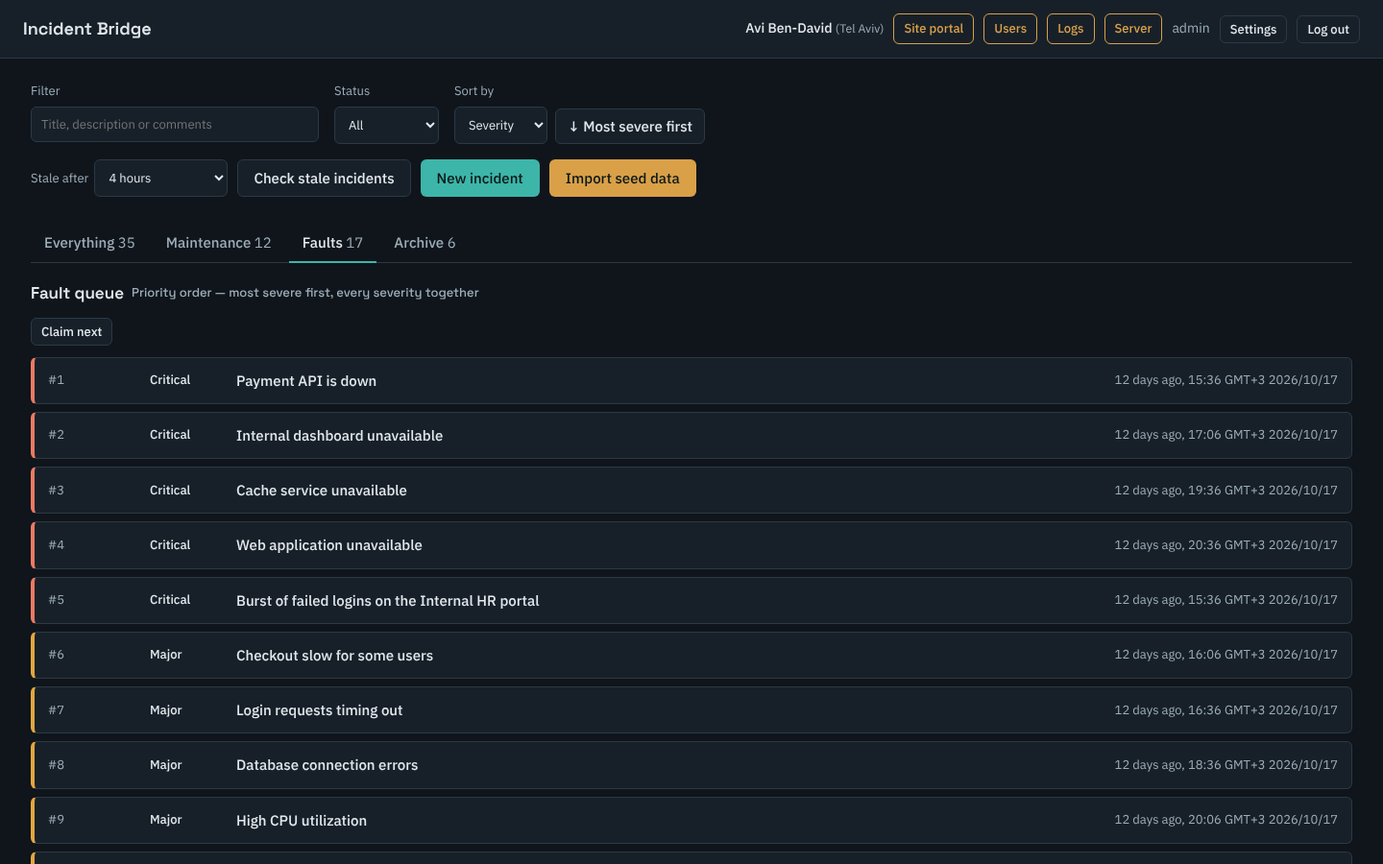
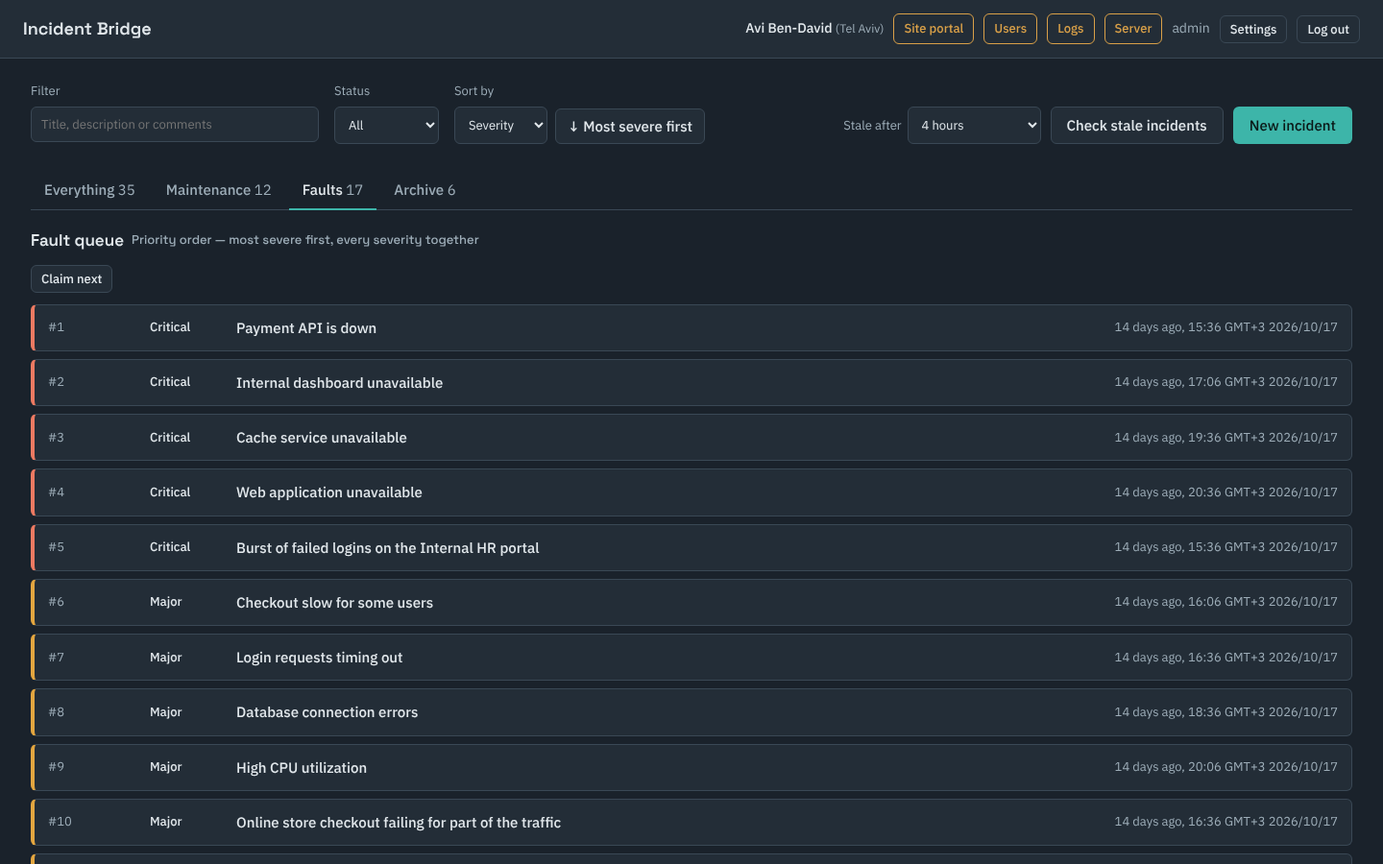
Gate the API docs behind a setting, fix the phone layout, new dark screenshot
- API_DOCS_ACCESS (Server settings > Settings > Server): login (default)
  or public for /docs, /redoc and /openapi.json; strangers are sent to the
  login page, /openapi.json answers 401
- Top bar wraps at phone width; the Users table's hidden label no longer
  widens the page - no page scrolls sideways at 390px
- Recaptured 08-dashboard-dark.png in the default Medium shade
- Docs: README, guide and .env.example; stale demo.py references removed

Changed region(s): [[0.0, 0.1867, 1.0, 0.9956], [0.625, 0.1244, 1.0, 0.1867]]

diff --git a/frontend/guide.html b/frontend/guide.html
@@ -267,7 +267,7 @@
       <figcaption>Server settings while testing: HTTPS with the generated certificate.</figcaption>
     </figure>
     <ul>
-      <li><strong>Settings</strong> — grouped: the mode, logins, the activity log, the site portal and the AI queue's timing. They are kept encrypted with the data. The file <code>backend/.env</code> only gave their first values when the app was set up; changing it now has no effect. Each shows <em>saved</em> or <em>default</em>; an empty field goes back to the default. A value the app could not start with is refused, and production mode only once HTTPS is set up for it.</li>
+      <li><strong>Settings</strong> — grouped: the mode, who may read the API documentation (<code>/docs</code>: logged-in users only, or anyone), logins, the activity log, the site portal and the AI queue's timing. They are kept encrypted with the data. The file <code>backend/.env</code> only gave their first values when the app was set up; changing it now has no effect. Each shows <em>saved</em> or <em>default</em>; an empty field goes back to the default. A value the app could not start with is refused, and production mode only once HTTPS is set up for it.</li>
       <li><strong>HTTPS</strong> — <em>Serve HTTPS</em> adds an encrypted address next to the plain one, on its own port (for example <code>https://your-server:8443</code>). <em>HTTPS only for remote connections</em> sends anyone on another computer who uses the plain address on to the HTTPS one. From the server computer itself the plain address always keeps working, so a wrong setting can never lock you out.</li>
       <li><strong>Certificate</strong> — while testing, the app can make its own (<em>self-signed</em>): each browser warns about it once, then lets you continue. In <strong>production</strong> it must be a certificate from a certificate authority — your organization, your hosting company, or a public one such as Let's Encrypt, DigiCert or GoDaddy. Enter the paths of its certificate file (with the intermediate certificates after it, as the authority provides them) and its key file, and <em>Check the files</em>. In production the server will not start without HTTPS, a valid certificate from an authority, and <em>HTTPS only for remote connections</em>.</li>
       <li><strong>Trusted proxies</strong> — only when another server (a reverse proxy) sits in front of the app: its address, so the app believes what it reports about the visitor. Leave it empty otherwise.</li>

diff --git a/frontend/css/styles.css b/frontend/css/styles.css
@@ -244,6 +244,11 @@ textarea { resize: vertical; }
 }
 .topbar .wordmark { font-size: 18px; text-decoration: none; color: var(--ink); }
 .topbar-user { display: flex; align-items: center; gap: 10px; font-size: 14px; }
+/* Phone width: the wordmark on its own line, the buttons wrap below it. */
+@media (max-width: 720px) {
+  .topbar { flex-wrap: wrap; gap: 8px; padding: 12px 16px; }
+  .topbar-user { flex-wrap: wrap; gap: 6px 8px; }
+}
 .topbar-username { font-weight: 500; }
 .topbar-role { color: var(--ink-soft); text-transform: lowercase; }
 
@@ -426,7 +431,7 @@ a.row:focus-visible { outline: 2px solid var(--accent); outline-offset: 2px; }
 .row-stale-tag { font-size: 12px; font-weight: 600; color: var(--major); white-space: nowrap; }
 
 /* --- pressing maintenance calls table --- */
-.table-wrap { overflow-x: auto; margin-top: 8px; }
+.table-wrap { overflow-x: auto; margin-top: 8px; position: relative; }   /* relative: keeps .sr-only labels inside the scroll area */
 .data-table {
   width: 100%;
   border-collapse: collapse;

diff --git a/backend/app/api/docs.py b/backend/app/api/docs.py
@@ -1,0 +1,73 @@
+"""
+FastAPI's API documentation - /docs (Swagger UI), /redoc and the schema
+they read, /openapi.json - behind the API_DOCS_ACCESS setting (Server
+settings > Settings > Server, app/app_config.py):
+
+    login   (default) only for someone logged in: the pages send anyone else
+            to the login page, /openapi.json answers 401
+    public  open to anyone, like FastAPI's default
+
+The documentation only describes the API - every endpoint still checks the
+login and the role itself - but by default it is not handed to strangers.
+Read from the environment on each request; the saved setting reaches the
+environment at the next start (app_config.apply()), like every setting.
+"""
+
+import os
+
+from fastapi import APIRouter, HTTPException, Request
+from fastapi.openapi.docs import get_redoc_html, get_swagger_ui_html, get_swagger_ui_oauth2_redirect_html
+from fastapi.responses import JSONResponse, RedirectResponse
+
+from app.api.deps import get_current_user
+
+API_DOCS_ENV = "API_DOCS_ACCESS"
+CHOICES = ("login", "public")
+OPENAPI_URL = "/openapi.json"
+
+router = APIRouter(include_in_schema=False)
+
+
+def docs_access() -> str:
+    """API_DOCS_ACCESS: login (default) or public. ValueError for anything else (startup stops with it)."""
+    value = (os.environ.get(API_DOCS_ENV) or "login").strip().lower()
+    if value not in CHOICES:
+        raise ValueError(f"{API_DOCS_ENV} must be login or public (got {value!r}).")
+    return value
+
+
+def _allowed(request: Request) -> bool:
+    if docs_access() == "public":
+        return True
+    try:
+        get_current_user(request)
+    except HTTPException:
+        return False
+    return True
+
+
+@router.get(OPENAPI_URL)
+def openapi_schema(request: Request):
+    if not _allowed(request):
+        raise HTTPException(status_code=401, detail="Log in to read the API documentation.")
+    return JSONResponse(request.app.openapi())
+
+
+@router.get("/docs")
+def swagger_ui(request: Request):
+    if not _allowed(request):
+        return RedirectResponse("/", status_code=303)
+    return get_swagger_ui_html(openapi_url=OPENAPI_URL, title=f"{request.app.title} - docs",
+                               oauth2_redirect_url="/docs/oauth2-redirect")
+
+
+@router.get("/docs/oauth2-redirect")
+def swagger_ui_redirect():
+    return get_swagger_ui_oauth2_redirect_html()
+
+
+@router.get("/redoc")
+def redoc(request: Request):
+    if not _allowed(request):
+        return RedirectResponse("/", status_code=303)
+    return get_redoc_html(openapi_url=OPENAPI_URL, title=f"{request.app.title} - ReDoc")

diff --git a/backend/app/api/app.py b/backend/app/api/app.py
@@ -30,7 +30,7 @@ from fastapi.responses import FileResponse, JSONResponse, RedirectResponse
 from fastapi.staticfiles import StaticFiles
 
 from app import app_config
-from app.api import ai_requests, analysis, auth, events, incidents, logs, server, setup, sites, users
+from app.api import ai_requests, analysis, auth, docs, events, incidents, logs, server, setup, sites, users
 from app.api.deps import get_session_user
 from app.api.lifecycle import start_services, stop_services
 from app.api.request_log import RequestLogMiddleware
@@ -92,7 +92,9 @@ async def lifespan(app: FastAPI):
 # Uvicorn with it; this also covers the bare `uvicorn app.api.app:app` command.
 apply_console_format()
 
-app = FastAPI(title="Incident Bridge API", version=app_version(), lifespan=lifespan)
+# The API docs are served by app/api/docs.py, behind the API_DOCS_ACCESS setting.
+app = FastAPI(title="Incident Bridge API", version=app_version(), lifespan=lifespan,
+              docs_url=None, redoc_url=None, openapi_url=None)
 
 # --- session cookie (signed, not encrypted - don't put secrets in it) ---
 # Keyed with the installation's session secret, generated at setup and kept in
@@ -135,12 +137,13 @@ app.include_router(sites.router)   # admin-only site portal (Sites & Mailing Lis
 app.include_router(analysis.router)   # AI analysis of faults (app/ai/)
 app.include_router(ai_requests.router)  # admin: the AI request history and archive (site portal)
 app.include_router(server.router)     # admin-only Server settings (HTTPS, AI)
+app.include_router(docs.router)       # /docs, /redoc, /openapi.json (API_DOCS_ACCESS)
 
 
 # --- centralized exception -> HTTP status mapping ---
 # The domain layer (app/models, app/queues) raises plain Python exceptions
 # for business-rule violations rather than HTTP-aware ones, so it stays
-# usable outside a web context too (e.g. from demo.py). These handlers are
+# usable outside a web context too (e.g. from main.py). These handlers are
 # the one place that translates them - see app/api/incidents.py and
 # app/api/auth.py for where each one gets raised.
 

diff --git a/backend/tests/test_api/test_api_docs.py b/backend/tests/test_api/test_api_docs.py
@@ -1,0 +1,39 @@
+"""
+Tests for the API documentation behind API_DOCS_ACCESS (app/api/docs.py):
+by default only for someone logged in; "public" opens it to anyone; a bad
+value is refused on the Server settings page.
+
+Run from backend/:  python -m pytest tests/test_api/test_api_docs.py -v
+"""
+
+import pytest
+from fastapi.testclient import TestClient
+
+DOC_PAGES = ("/docs", "/redoc")
+
+
+def test_by_default_strangers_are_sent_to_the_login_page(app_client):
+    for page in DOC_PAGES:
+        response = app_client.get(page, follow_redirects=False)
+        assert response.status_code == 303 and response.headers["location"] == "/"
+    assert app_client.get("/openapi.json").status_code == 401
+
+
+def test_a_logged_in_user_reads_them(user_client):
+    for page in DOC_PAGES:
+        assert user_client.get(page).status_code == 200
+    schema = user_client.get("/openapi.json").json()
+    assert "/incidents" in schema["paths"] and "/openapi.json" not in schema["paths"]
+
+
+def test_public_opens_them_to_anyone(app_client, monkeypatch):
+    monkeypatch.setenv("API_DOCS_ACCESS", "public")
+    stranger = TestClient(app_client.app)
+    assert stranger.get("/docs").status_code == 200 and stranger.get("/openapi.json").status_code == 200
+
+
+def test_a_bad_value_is_refused_on_the_page(admin_client):
+    response = admin_client.put("/server/config", json={"values": {"API_DOCS_ACCESS": "everyone"}})
+    assert response.status_code == 400 and "login or public" in response.json()["detail"]
+    saved = admin_client.put("/server/config", json={"values": {"API_DOCS_ACCESS": "public"}}).json()
+    assert saved["changed"] == ["API_DOCS_ACCESS"]

diff --git a/backend/app/app_config.py b/backend/app/app_config.py
@@ -64,6 +64,7 @@ def _checks():
     from app.ai.config import _read_number
     from app.ai.log import log_level_from_env
     from app.ai.providers.gemini_models import gemini_settings
+    from app.api.docs import docs_access
     from app.api.security import session_settings_from_env
     from app.archive_rules import request_archive_after_from_env
     from app.audit import log_dirs_from_env
@@ -88,6 +89,7 @@ def _checks():
         "AI_LOG_LEVEL": log_level_from_env,
         "GEMINI_MODEL_DISCOVERY": gemini_settings,
         "APP_MODE": app_mode,
+        "API_DOCS_ACCESS": docs_access,
     }
 
 
@@ -96,6 +98,10 @@ SETTINGS: Tuple[Setting, ...] = (
             "Testing allows the generated self-signed certificate. Production needs HTTPS with a certificate from a "
             "certificate authority and HTTPS only for remote connections - the server will not start otherwise.",
             choices=("testing", "production"), kind="choice"),
+    Setting("API_DOCS_ACCESS", "Server", "API documentation (/docs, /redoc, /openapi.json)", "login",
+            "login: only for someone logged in (anyone else is sent to the login page). public: open to anyone. "
+            "It only describes the API - every endpoint still checks the login and the role.",
+            choices=("login", "public"), kind="choice"),
     Setting("REQUIRE_PASSWORD_CHANGE_ON_FIRST_LOGIN", "Accounts and logins", "Password chosen by someone else must be "
             "changed at the next login", "true",
             "New accounts and passwords reset by an admin. Off: the person keeps the password they were given.",

diff --git a/backend/tests/test_api/test_auth.py b/backend/tests/test_api/test_auth.py
@@ -123,7 +123,7 @@ def test_every_response_carries_the_security_headers(app_client):
     headers = app_client.get("/health").headers
     assert "frame-ancestors 'none'" in headers["content-security-policy"]
     assert headers["x-frame-options"] == "DENY" and headers["x-content-type-options"] == "nosniff"
-    assert "content-security-policy" not in app_client.get("/docs").headers      # Swagger UI needs its CDN
+    assert "content-security-policy" not in app_client.get("/docs", follow_redirects=False).headers  # Swagger UI: its CDN
 
 
 @pytest.mark.parametrize("path", ["/dashboard.html", "/js/api.js", "/css/styles.css", "/health"])

diff --git a/backend/app/api/security.py b/backend/app/api/security.py
@@ -31,8 +31,8 @@ The session cookie is marked Secure whenever the request came over HTTPS
 (or always, with SESSION_COOKIE_SECURE=true), so a login made over HTTPS is
 never sent back over plain HTTP.
 
-FastAPI's own API docs (/docs, /redoc) load their page from a CDN with an
-inline script, so they get every header except the CSP.
+FastAPI's own API docs (/docs, /redoc - app/api/docs.py) load their page
+from a CDN with an inline script, so they get every header except the CSP.
 
 It is a plain ASGI middleware (not BaseHTTPMiddleware) so it never buffers
 the long-lived live-update stream (GET /events).

diff --git a/README.md b/README.md
@@ -117,7 +117,7 @@ The full tree is in [§12](#12-project-structure-file-map). The layout differs f
 
 ### 5. Proof that it works
 
-- **Tests:** 1488 tests, all passing — `cd backend && python -m pytest -q` (GitHub Actions runs them on every push). Coverage per area in [§14](#14-automated-testing).
+- **Tests:** 1492 tests, all passing — `cd backend && python -m pytest -q` (GitHub Actions runs them on every push). Coverage per area in [§14](#14-automated-testing).
 - **Real run** (`python main.py --live` with a Gemini key, 2026-10-31 — the output holds no key or other secret; section 10, the real call):
 
 ```
@@ -171,7 +171,7 @@ The web app as of v0.5.0 (with the dashboard tabs, Settings and Users page), wit
 
 [![Settings, Interface tab](docs/screenshots/07-settings-interface.png)](docs/screenshots/07-settings-interface.png)
 
-**8. Dark theme** — the dashboard's *Faults* tab: the fault queue in priority order, with each fault's time as *hours ago, HH:MM zone YYYY/MM/DD* in the viewer's own time zone (captured in Israel time, GMT+3).
+**8. Dark theme** (the default *Medium* shade) — the dashboard's *Faults* tab: the fault queue in priority order, with each fault's time as *hours ago, HH:MM zone YYYY/MM/DD* in the viewer's own time zone (captured in Israel time, GMT+3).
 
 [![Dashboard in the dark theme](docs/screenshots/08-dashboard-dark.png)](docs/screenshots/08-dashboard-dark.png)
 
@@ -664,7 +664,7 @@ Both live in `backend/app/context.py`; neither ever suppresses an exception (`__
 
 ## 11. Architecture — as built
 
-- **Backend:** FastAPI (`backend/app/api/app.py`) served by Uvicorn; request bodies are Pydantic models; domain errors map to HTTP codes in one place (`ValueError` → 400, `PermissionError` → 403, `KeyError`/`IndexError` → 404, `RuntimeError` → 409). Interactive API documentation is served by the app itself at **`/docs`** (generated by FastAPI from the code) — this is the API reference; this README is the project documentation.
+- **Backend:** FastAPI (`backend/app/api/app.py`) served by Uvicorn; request bodies are Pydantic models; domain errors map to HTTP codes in one place (`ValueError` → 400, `PermissionError` → 403, `KeyError`/`IndexError` → 404, `RuntimeError` → 409). Interactive API documentation is served by the app itself at **`/docs`** (and `/redoc`, `/openapi.json`; generated by FastAPI from the code, `app/api/docs.py`) — this is the API reference; this README is the project documentation. By default only someone logged in can read it (anyone else is sent to the login page); the `API_DOCS_ACCESS` setting (Server settings, `login` / `public`) can open it to anyone. Every endpoint checks the login and the role itself either way.
 - **Users and auth:** no self-registration. Accounts live in the database (`users` table, `app/persistence_users.py`). The **first admin** is created on the setup page (below), so no admin password ever sits in a file. **Regular users** can be listed in `INCIDENT_BRIDGE_USERS`; the setup page creates them — validated **fail-fast** (invalid JSON, an invalid entry, an admin entry, a password that breaks the policy, a duplicate username (case-insensitive) or a reserved name is reported with every problem listed) — and they must change their password at first login (`REQUIRE_PASSWORD_CHANGE_ON_FIRST_LOGIN`). **After that the table is the source of truth** and `INCIDENT_BRIDGE_USERS` is not read again: admins manage accounts on the **Users** page (create, change role, disable/enable, reset password — `app/api/users.py`), and `backend/manage_users.py` resets a password from the command line when no admin can log in. Accounts are disabled, never deleted. The name `ai-assistant` is reserved for a built-in **system user** (`app/models/system_users.py`) that the app always adds in memory; it authors AI analysis comments and can never log in.
 - **Passwords:** the character-mix policy in `PasswordPolicy` — 8–128 characters with an uppercase letter, a lowercase letter, a digit and a symbol, not containing the username, not on a list of common passwords, and (when changing) different from the current one; served as data by `GET /auth/password-policy` for the live checklist and tooltip, and described on the Guide page (`/guide.html#password-policy`). Stored as PBKDF2-HMAC-SHA256 with a random salt and **600,000 iterations** (the count is stored with each hash; an older, weaker hash is re-hashed at the next login), compared in constant time. Changing a password needs the current one and a matching confirmation (checked by the server).
 - **Sessions and login hardening:** a signed cookie holding the username and the user's *session version*; the user, role and version are checked on every request, never trusted from the browser. A password change/reset or disabling the account bumps the version, which ends every other session. The cookie lasts `SESSION_MAX_AGE_HOURS` (default 12) and is `Secure` when `SESSION_COOKIE_SECURE=true`. Failed logins are limited (`app/services/login_guard.py`): 5 per username or 20 per address in 15 minutes lock that username/address for 15 minutes (HTTP 429). An unknown or disabled username gets the same answer in the same time as a wrong password. A user who must change their password gets 403 from every endpoint except `/auth/me` and `/auth/change-password` until they do.
@@ -769,7 +769,7 @@ Incident_Bridge/
 │   │   │   └── reanalysis.py     #   when a fault may be analyzed again
 │   │   ├── api/
 │   │   │   ├── app.py            # FastAPI app: middleware, routers, error mapping, frontend files
-│   │   │   ├── auth.py, users.py, incidents.py, events.py, sites.py, analysis.py, ai_requests.py, logs.py, server.py, demo.py   # routers
+│   │   │   ├── auth.py, users.py, incidents.py, events.py, sites.py, analysis.py, ai_requests.py, logs.py, server.py, docs.py   # routers (docs.py: /docs, /redoc behind API_DOCS_ACCESS)
 │   │   │   ├── request_log.py    # ASGI middleware: one activity record per HTTP request
 │   │   │   ├── setup.py          # first-start setup endpoints + the gate that holds everything else back
 │   │   │   ├── lifecycle.py      # start/stop the services once the database is unlocked
@@ -865,7 +865,7 @@ Incident_Bridge/
 
 ## 14. Automated testing
 
-`backend/tests/` holds **1488 tests** (pytest), all passing, with **96% statement coverage** of `backend/app/`. GitHub Actions runs them on every push and pull request (`.github/workflows/backend-tests.yml`).
+`backend/tests/` holds **1492 tests** (pytest), all passing, with **96% statement coverage** of `backend/app/`. GitHub Actions runs them on every push and pull request (`.github/workflows/backend-tests.yml`).
 
 - **Isolated from your settings** — `tests/conftest.py` clears every app setting from the environment and stops `backend/.env` from being loaded, so the suite gives the same result with or without your own `.env` (users, AI provider, database, data folders, HTTPS, log options). Tests that start `serve_app.py` as a process of its own (which does load `.env`) pass it `env_without_dotenv()`: every setting named in `.env.example` or `.env` is set — to the test's value, else empty — so nothing from your `.env` (such as a path to your real installation) applies.
 - **Unit tests** — the domain classes directly, no HTTP and no database: models (`tests/test_models/`), services (`tests/test_services/`), queues (`tests/test_queues/`), iterators, the generator, context managers, the scan, the report, the site directory, user provisioning and JSONL validation.
@@ -925,6 +925,7 @@ No extra package is needed for AI analysis: every provider is called through `re
 | `HTTPS_ENABLED`, `HTTPS_PORT`, `HTTPS_ONLY_REMOTE` | No | Serve HTTPS too (default `false`) on `HTTPS_PORT` (default `8443`); `HTTPS_ONLY_REMOTE=true` redirects other computers' HTTP to HTTPS. |
 | `TLS_CERT_FILE`, `TLS_KEY_FILE`, `TLS_KEY_PASSWORD` | No | The certificate (PEM, intermediates after it) and its key; without them, testing uses a generated self-signed certificate |
 | `TRUSTED_PROXIES` | No | Comma-separated addresses or networks of a reverse proxy whose `X-Forwarded-*` headers are believed (default: none) |
+| `API_DOCS_ACCESS` | No | Who may read the API documentation (`/docs`, `/redoc`, `/openapi.json`): `login` (default, logged-in users) or `public` |
 | `ALLOWED_ORIGINS` | No | Only if the frontend is served from another origin |
 | `SITE_CHECK_TIMEOUT_SECONDS`, `SITE_CHECK_SLOW_MS` | No | Site check timeout (default 5 s) and "slow" threshold (default 2000 ms) |
 | `NOTIFICATION_ARCHIVE_DAYS` | No | Days before a sent, dismissed or skipped notification moves to the site portal's Archive tab (default 30; `0` = never; drafts are never archived) |

diff --git a/AI_USAGE.md b/AI_USAGE.md
@@ -13,7 +13,7 @@ Incident Bridge started as an idea and was **designed and built by the Project's
 - write follow-up documentation, code comments/docstrings and usage instructions for the code files;
 - generate the synthetic sample data where needed as required by the project's requirements document and help check it.
 
-Every AI suggestion was **run, tested and reviewed by us before it was kept** (the project has 1488 automated tests, run on every push since implementation). Responsibility for the code and the decisions stays with the team members, and we can explain every part of the business process behind it.
+Every AI suggestion was **run, tested and reviewed by us before it was kept** (the project has 1492 automated tests, run on every push since implementation). Responsibility for the code and the decisions stays with the team members, and we can explain every part of the business process behind it.
 
 **Tool used:** Claude (Anthropic), in chat sessions.
 
@@ -132,14 +132,14 @@ Team members also used AI tools on their own while writing their parts; those co
 
 ### Integration, demo and documentation
 
-| Topic | What the AI pointed out or suggested | What we checked | What we decided |
-|---|---|---|---|
-| Plan | Read the Stage 2 brief and our team plan, listed the integration tasks, and pointed out that the brief puts `pyproject.toml` and `.env.example` in the repository root, while ours are in `backend/` | The brief, sections 2.3 and 7.1 | Asked the lecturer instead of moving files on our own; the lecturer approved our layout |
-| Starting point | Noticed that the uploaded branch was v0.4.9 and contained only `backend/`, not v0.5.0 with the root files | `git log origin/feature/Gemini_API`, the version in `backend/pyproject.toml` | Fast-forwarded our branch to v0.5.0 before writing anything |
-| `main.py --live` | Suggested `--live` calls only the configured AI provider, and stops with a clear message when no real provider is configured | That `.env` keys are never printed; the brief: no simulated data shown as if it came from the network | Kept: no silent fallback; every Stage 2 result is tagged SIMULATED or REAL; site checks stay simulated (the sample sites are not real) |
-| Demo content | Suggested showing the same steps the worker runs (prompt → `analyze()` → comments), a service failure that changes nothing but the error comment, and the patterns | Ran `main.py` offline and the `--live` error cases | Kept; the Stage 2 sections print "pending" until the code they show is merged |
+| Topic | What the AI pointed out or suggested | What we checked                                                                                                                                                                    | What we decided |
+|---|---|------------------------------------------------------------------------------------------------------------------------------------------------------------------------------------|---|
+| Plan | Read the Stage 2 brief and our team plan, listed the integration tasks, and pointed out that the brief puts `pyproject.toml` and `.env.example` in the repository root, while ours are in `backend/` | The brief, sections 2.3 and 7.1                                                                                                                                                    | Asked the lecturer instead of moving files on our own; the lecturer approved our layout |
+| Starting point | Noticed that the uploaded branch was v0.4.9 and contained only `backend/`, not v0.5.0 with the root files | `git log origin/feature/Gemini_API`, the version in `backend/pyproject.toml`                                                                                                       | Fast-forwarded our branch to v0.5.0 before writing anything |
+| `main.py --live` | Suggested `--live` calls only the configured AI provider, and stops with a clear message when no real provider is configured | That `.env` keys are never printed; the brief: no simulated data shown as if it came from the network                                                                              | Kept: no silent fallback; every Stage 2 result is tagged SIMULATED or REAL; site checks stay simulated (the sample sites are not real) |
+| Demo content | Suggested showing the same steps the worker runs (prompt → `analyze()` → comments), a service failure that changes nothing but the error comment, and the patterns | Ran `main.py` offline and the `--live` error cases                                                                                                                                 | Kept; the Stage 2 sections print "pending" until the code they show is merged |
 | Tests for the demo | Suggested extending `tests/test_main_demo.py` | Our own expected results: (1) an offline run prints SIMULATED and never `[REAL]`; (2) `--live` with `GEMINI_API_KEY` empty exits with an error, prints the reason and nothing else | Kept both |
-| Verification limits | The AI's sandbox could not install FastAPI/pytest (no network), so it ran `main.py` and the two demo tests directly, not the whole suite | Ran the full suite locally: `1488 passed` | — |
-| Merging the branches | Traced a drop in the test count to a stray branch and stale counts in the README, and found two seed-script password tests lost when commits were combined | `git log` of each branch; the test count after every merge | Restored the two tests (`9dbcdb2`); the stray branch was never merged |
-| Windows | Found that the activity-log file stayed open after the app stopped, and that two `serve_app.py` tests read the developer's real `.env` | Ran the suite on Windows | Fixed both (`bea5f9e`, `8093c32`) |
-| Settings and security | We decided to keep every setting in the app and to drop the requirements demo page (it ran code from inside the app, and the brief does not ask for it); the AI planned the move and pointed out that the brief (§2.3) still needs the API key to be readable from the environment | A fresh setup and a restart with an edited `.env` (ignored); the key's fallback to `.env` | Settings are copied into the encrypted database at setup; an API key not saved in the app is still read from `.env`; the demo page removed (`c1930c5`) |
+| Verification limits | The AI's sandbox could not install FastAPI/pytest (no network), so it ran `main.py` and the two demo tests directly, not the whole suite | Ran the full suite locally: `1492 passed`                                                                                                                                          | — |
+| Merging the branches | Traced a drop in the test count to a stray branch and stale counts in the README, and found two seed-script password tests lost when commits were combined | `git log` of each branch; the test count after every merge                                                                                                                         | Restored the two tests (`9dbcdb2`); the stray branch was never merged |
+| Windows | Found that the activity-log file stayed open after the app stopped, and that two `serve_app.py` tests read the developer's real `.env` | Ran the suite on Windows                                                                                                                                                           | Fixed both (`bea5f9e`, `8093c32`) |
+| Settings and security | We decided to keep every setting in the app and to drop the requirements demo page (it ran code from inside the app, and the brief does not ask for it); the AI planned the move and pointed out that the brief (§2.3) still needs the API key to be readable from the environment | A fresh setup and a restart with an edited `.env` (ignored); the key's fallback to `.env`                                                                                          | Settings are copied into the encrypted database at setup; an API key not saved in the app is still read from `.env`; the demo page removed (`c1930c5`) |
